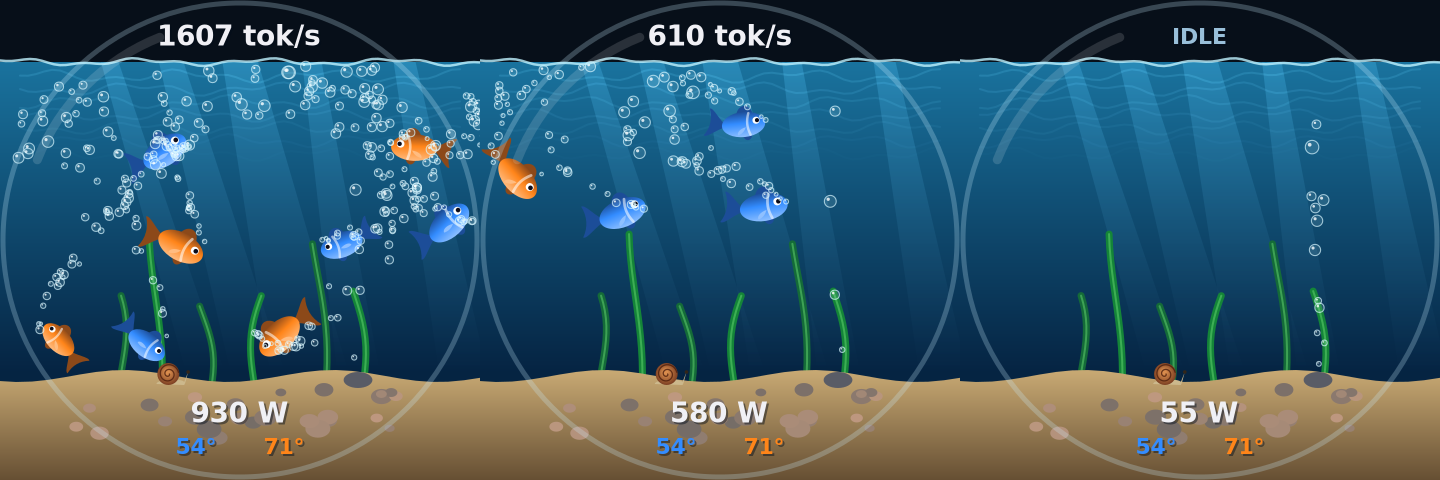
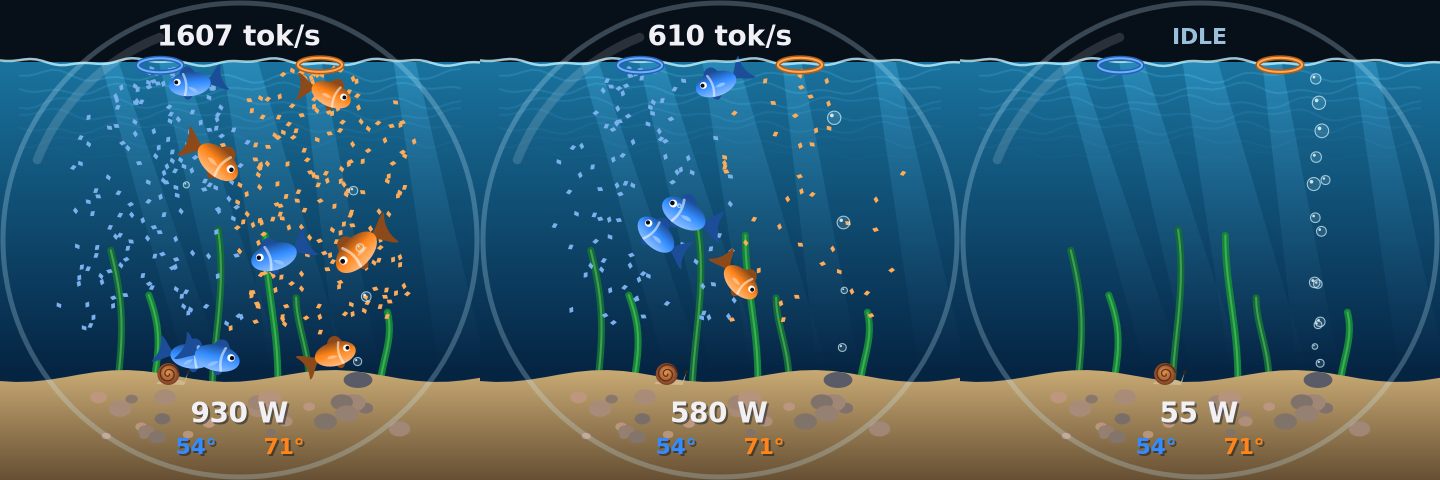
fishbowl: tokens are fish food
Each server's tokens drop from a floating feeding ring as flakes in its
color, one per 35 tokens. Fish chase and eat their own server's flakes
(with a little gulp); missed flakes settle on the sand and fade. Fish
keep steering inside the bowl while feeding and never leave the water.

Claude-Session: https://claude.ai/code/session_015nAWjnqqZVdKSvbNr6PTTx

diff --git a/c/fishbowl.c b/c/fishbowl.c
@@ -3,8 +3,9 @@
  *
  * Every busy request slot is a fish: blue tangs for the ZOTAC's vLLM server, orange
  * goldfish for the TUF's. A fish swims in from off screen when a request starts and
- * swims out when it finishes. They swim faster with their server's tokens/sec and blow
- * bubbles at its real token rate. Light rays, caustics, swaying seaweed, a bubbler
+ * swims out when it finishes. Tokens are fish food: each server's tokens drop from its
+ * floating feeding ring as flakes at the real rate, and its fish chase and eat them.
+ * Fish swim faster with their server's tokens/sec. Light rays, caustics, swaying seaweed, a bubbler
  * and a very slow snail. Idle, the bowl is empty apart from the snail.
  * Run with --demo to simulate data, --bench to write preview PNGs.
  */
@@ -292,7 +293,9 @@ static void demo_poll(stats *s, double t)
 #define SAND_Y          372.0       /* top of the sand */
 #define SWIM_R          196.0       /* fish stay inside this radius */
 #define MAX_BUBBLES     500
-#define TOKENS_PER_BUBBLE 14.0
+#define TOKENS_PER_FLAKE 35.0      /* one food flake per this many generated tokens */
+#define MAX_FLAKES      700
+#define RING_DX         80.0        /* feeding rings sit this far either side of center */
 #define N_WEEDS         6
 #define N_PEBBLES       26
 
@@ -302,9 +305,12 @@ typedef struct {
     double tail;                    /* tail wag phase */
     double size;
     double exit_x;                  /* where it's heading when leaving */
+    double gulp;                    /* 1 right after eating, decays */
     int    src, busy;
     int    state;                   /* FISH_GONE, FISH_IN (swimming in or around), FISH_LEAVING */
 } fish;
+
+typedef struct { double x, y, vx, vy, rot, spin, settled; int src, alive; } flake;
 
 enum { FISH_GONE, FISH_IN, FISH_LEAVING };
 
@@ -312,6 +318,8 @@ typedef struct { double x, y, r, wob, vy; int alive; } bubble;
 
 static fish   fishes[N_SLOTS];
 static bubble bubbles[MAX_BUBBLES];
+static flake  flakes[MAX_FLAKES];
+static double flake_acc[2];
 static double bub_acc[3];
 static double weed_x[N_WEEDS], weed_h[N_WEEDS], weed_p[N_WEEDS];
 static double peb_x[N_PEBBLES], peb_y[N_PEBBLES], peb_r[N_PEBBLES], peb_c[N_PEBBLES];
@@ -354,14 +362,45 @@ static void spawn_bubble(double x, double y, double r)
         }
 }
 
+static void spawn_flake(int src)
+{
+    const double c = SIZE / 2.0;
+    for (int i = 0; i < MAX_FLAKES; i++)
+        if (!flakes[i].alive) {
+            double rx = c + (src == 0 ? -RING_DX : RING_DX);
+            flakes[i] = (flake){ rx + (frand() - 0.5) * 34, SURFACE_Y + 6, (frand() - 0.5) * 150, 8 + frand() * 14,
+                                 frand() * M_PI, (frand() - 0.5) * 4, 0, src, 1 };
+            return;
+        }
+}
+
+/* Nearest free-falling flake of this fish's server, if any is close enough to chase */
+static int nearest_flake(const fish *f)
+{
+    int best = -1;
+    double bd = 230;
+    for (int i = 0; i < MAX_FLAKES; i++) {
+        const flake *k = &flakes[i];
+        if (!k->alive || k->settled > 0 || k->src != f->src)
+            continue;
+        if (k->y < SURFACE_Y + 35 || k->y > SAND_Y - 20 || hypot(k->x - SIZE / 2.0, k->y - SIZE / 2.0) > SWIM_R - 25)
+            continue;                               /* out of reach: at the surface, on the sand, at the glass */
+        double d = hypot(k->x - f->x, k->y - f->y);
+        if (d < bd) {
+            bd = d;
+            best = i;
+        }
+    }
+    return best;
+}
+
 static void simulate(const stats *s, double dt, double t)
 {
     const double c = SIZE / 2.0;
 
     for (int i = 0; i < N_SLOTS; i++) {
         fish *f = &fishes[i];
-        int k = i % SLOTS_PER_SERVER;
-        f->busy = k < s->running_port[f->src];
+        f->busy = i % SLOTS_PER_SERVER < s->running_port[f->src];
 
         if (f->busy && f->state == FISH_GONE) {
             /* A new request swims in from off screen */
@@ -387,8 +426,10 @@ static void simulate(const stats *s, double dt, double t)
         double want_speed = f->state == FISH_LEAVING ? 120 : 35 + fmin(per_slot, 700) * 0.22;
         f->speed += (want_speed - f->speed) * fmin(1, dt * 1.5);
         f->tail += dt * (4 + f->speed * 0.12);
+        f->gulp *= exp(-dt * 6);
 
         double dx = f->x - c, dy = f->y - c, r = hypot(dx, dy);
+        int k;
         f->turn += (frand() - 0.5) * 3.0 * dt;
         f->turn *= exp(-dt * 1.2);
 
@@ -400,11 +441,26 @@ static void simulate(const stats *s, double dt, double t)
                 f->state = FISH_GONE;
                 continue;
             }
-        } else if (r > SWIM_R - 30 || f->y > SAND_Y - 40 || f->y < SURFACE_Y + 45) {
-            /* Steer back inside the bowl (also brings new fish in from the edge) */
-            double to_center = atan2(c + 10 - f->y, c - f->x);
-            double diff = remainder(to_center - f->heading, 2 * M_PI);
-            f->turn += diff * (r > SWIM_R ? 6.0 : 2.5) * dt;
+        } else {
+            if (r < SWIM_R - 20 && (k = nearest_flake(f)) >= 0) {
+            /* Chase the nearest flake of our server's food and eat it */
+            flake *fl = &flakes[k];
+            double dir = cos(f->heading) >= 0 ? 1 : -1;
+            double mx = f->x + dir * 22 * f->size, my = f->y;
+            f->turn += remainder(atan2(fl->y - my, fl->x - mx) - f->heading, 2 * M_PI) * 5.0 * dt;
+            if (hypot(fl->x - mx, fl->y - my) < 12) {
+                fl->alive = 0;
+                f->gulp = 1;
+                if (frand() < 0.35)
+                    spawn_bubble(mx, my - 4, 1.5 + frand());
+            }
+            }
+            if (r > SWIM_R - 30 || f->y > SAND_Y - 40 || f->y < SURFACE_Y + 45) {
+                /* Steer back inside the bowl (also brings new fish in from the edge) */
+                double to_center = atan2(c + 10 - f->y, c - f->x);
+                double diff = remainder(to_center - f->heading, 2 * M_PI);
+                f->turn += diff * (r > SWIM_R ? 6.0 : 3.5) * dt;
+            }
         }
         /* Keep a little distance from other fish */
         for (int j = 0; j < N_SLOTS; j++) {
@@ -423,23 +479,39 @@ static void simulate(const stats *s, double dt, double t)
         f->heading += remainder(level - f->heading, 2 * M_PI) * 0.35 * dt;
         f->x += cos(f->heading) * f->speed * dt;
         f->y += sin(f->heading) * f->speed * dt;
+        f->y = fmax(SURFACE_Y + 22, fmin(SAND_Y - 14, f->y));
     }
 
-    /* Bubbles: each server's tokens come out of its fish; the bubbler runs when idle */
+    /* Food: each server's tokens drop out of its feeding ring as flakes */
     for (int src = 0; src < 2; src++) {
-        int n = 0, idx[N_SLOTS];
-        for (int i = 0; i < N_SLOTS; i++)
-            if (fishes[i].src == src && fishes[i].state == FISH_IN &&
-                hypot(fishes[i].x - c, fishes[i].y - c) < SWIM_R)
-                idx[n++] = i;
-        bub_acc[src] += (n ? s->tok_port[src] / TOKENS_PER_BUBBLE : 0) * dt;
-        while (bub_acc[src] >= 1) {
-            fish *f = &fishes[idx[rand() % n]];
-            double dir = cos(f->heading) >= 0 ? 1 : -1;
-            spawn_bubble(f->x + dir * 22 * f->size, f->y - 3, 1.5 + frand() * 2.5);
-            bub_acc[src] -= 1;
+        flake_acc[src] += fmin(s->tok_port[src], 2000) / TOKENS_PER_FLAKE * dt;
+        while (flake_acc[src] >= 1) {
+            spawn_flake(src);
+            flake_acc[src] -= 1;
         }
     }
+    for (int i = 0; i < MAX_FLAKES; i++) {
+        flake *k = &flakes[i];
+        if (!k->alive)
+            continue;
+        if (k->settled > 0) {
+            k->settled += dt;
+            if (k->settled > 5)
+                k->alive = 0;
+            continue;
+        }
+        k->vx *= exp(-dt * 0.9);
+        k->x += (k->vx + 16 * sin(t * 1.3 + i * 0.7)) * dt;
+        k->y += k->vy * dt;
+        k->vy = fmin(k->vy + 20 * dt, 32);
+        k->rot += k->spin * dt;
+        double ground = SAND_Y + 8 + 6 * sin(k->x * 0.03 + 1);
+        if (k->y >= ground) {
+            k->y = ground;
+            k->settled = 0.001;
+        }
+    }
+
     bub_acc[2] += (s->tok_s < 1 ? 3.0 : 1.0) * dt;
     while (bub_acc[2] >= 1) {
         spawn_bubble(c + 118 + (frand() - 0.5) * 6, SAND_Y + 4, 2 + frand() * 3);
@@ -495,7 +567,7 @@ static void draw_fish(cairo_t *cr, const fish *f)
 
     cairo_save(cr);
     cairo_translate(cr, f->x, f->y);
-    cairo_scale(cr, dir * f->size, f->size);
+    cairo_scale(cr, dir * f->size * (1 + 0.12 * f->gulp), f->size * (1 + 0.12 * f->gulp));
     cairo_rotate(cr, tilt * dir);
     cairo_push_group(cr);
 
@@ -707,6 +779,26 @@ static void render(cairo_t *cr, const stats *s, const shown_t *sh, double t)
 
     draw_snail(cr, snail_x, t);
 
+    /* Food flakes */
+    for (int i = 0; i < MAX_FLAKES; i++) {
+        const flake *k = &flakes[i];
+        if (!k->alive)
+            continue;
+        rgb col = lerp(fish_color(k->src), (rgb){ 1, 0.95, 0.8 }, 0.35);
+        double a = k->settled > 0 ? clamp01(1 - (k->settled - 3) / 2) : 1;
+        cairo_save(cr);
+        cairo_translate(cr, k->x, k->y);
+        cairo_rotate(cr, k->rot);
+        cairo_move_to(cr, -3.2, -1.2);
+        cairo_line_to(cr, 1.5, -2.4);
+        cairo_line_to(cr, 3.4, 1.0);
+        cairo_line_to(cr, -1.2, 2.2);
+        cairo_close_path(cr);
+        cairo_set_source_rgba(cr, col.r, col.g, col.b, a);
+        cairo_fill(cr);
+        cairo_restore(cr);
+    }
+
     for (int i = 0; i < N_SLOTS; i++)
         if (fishes[i].state != FISH_GONE)
             draw_fish(cr, &fishes[i]);
@@ -735,6 +827,25 @@ static void render(cairo_t *cr, const stats *s, const shown_t *sh, double t)
     cairo_set_line_width(cr, 2.5);
     cairo_set_source_rgba(cr, 0.75, 0.95, 1.0, 0.8);
     cairo_stroke(cr);
+
+    /* Floating feeding rings, one per server, bobbing on the surface */
+    for (int src = 0; src < 2; src++) {
+        double rx = c + (src == 0 ? -RING_DX : RING_DX);
+        double ry = SURFACE_Y + 2 + 2 * sin(t * 1.6 + src * 2);
+        rgb col = fish_color(src);
+        cairo_save(cr);
+        cairo_translate(cr, rx, ry);
+        cairo_scale(cr, 1, 0.32);
+        cairo_new_path(cr);
+        cairo_arc(cr, 0, 0, 22, 0, 2 * M_PI);
+        cairo_restore(cr);
+        cairo_set_line_width(cr, 5);
+        set_rgb(cr, lerp(col, (rgb){ 0, 0, 0 }, 0.3));
+        cairo_stroke_preserve(cr);
+        cairo_set_line_width(cr, 2);
+        set_rgb(cr, lerp(col, (rgb){ 1, 1, 1 }, 0.3));
+        cairo_stroke(cr);
+    }
 
     /* Tokens/sec in the air above the water, stats on the sand */
     if (idle) {
@@ -804,6 +915,7 @@ int main(int argc, char **argv)
         };
         for (int k = 0; k < 3; k++) {
             memset(bubbles, 0, sizeof(bubbles));
+            memset(flakes, 0, sizeof(flakes));
             s.tok_port[0] = scenes[k].tok0; s.tok_port[1] = scenes[k].tok1;
             s.running_port[0] = scenes[k].run0; s.running_port[1] = scenes[k].run1;
             s.tok_s = s.tok_port[0] + s.tok_port[1]; s.running = scenes[k].run0 + scenes[k].run1;

diff --git a/README.md b/README.md
@@ -37,7 +37,7 @@ Every display shows generation tokens/sec summed across all requests on all vLLM
 - `singularity`: one particle per token, streams per server form spiral arms, trails, photon ring
 - `synapse`: fixed three layer network, one signal per two tokens, neurons flash as signals pass, core flashes on arrival
 - `plasma`: a plasma globe with one filament per busy request slot (`--max-num-seqs`) on each server. Filaments roam and swirl around the globe, faster with throughput, and push apart like a real plasma ball. Busy slots crackle and carry token pulses at the real rate, free slots are hidden, and the counter shows busy/total slots per GPU. Set `SLOTS_PER_SERVER` to match your servers
-- `fishbowl`: every busy request slot is a fish (blue tangs for GPU 0's server, goldfish for GPU 1's) that swims in from off screen when the request starts and out when it finishes, swimming faster with tokens/sec and blowing bubbles at the real token rate. Light rays, caustics, seaweed, a bubbler and a very slow snail
+- `fishbowl`: every busy request slot is a fish (blue tangs for GPU 0's server, goldfish for GPU 1's) that swims in from off screen when the request starts and out when it finishes. Tokens are fish food: each server's tokens drop from its floating feeding ring as flakes at the real rate (one per 35 tokens), and its fish chase and eat them. Light rays, caustics, seaweed, a bubbler and a very slow snail
 - `horizon`: passively captures streamed text from the vLLM servers on loopback (libpcap) and drops a legible subset in as words; the rest of the token flow becomes accretion dust. Lensed starfield, spaghettification, gravitational redshift. Nothing is stored or sent anywhere. Needs root or CAP_NET_RAW.
 
 Built for a dual RTX 5090 box running two vLLM servers, but the GPU bus IDs and vLLM ports are constants at the top of each source file.
